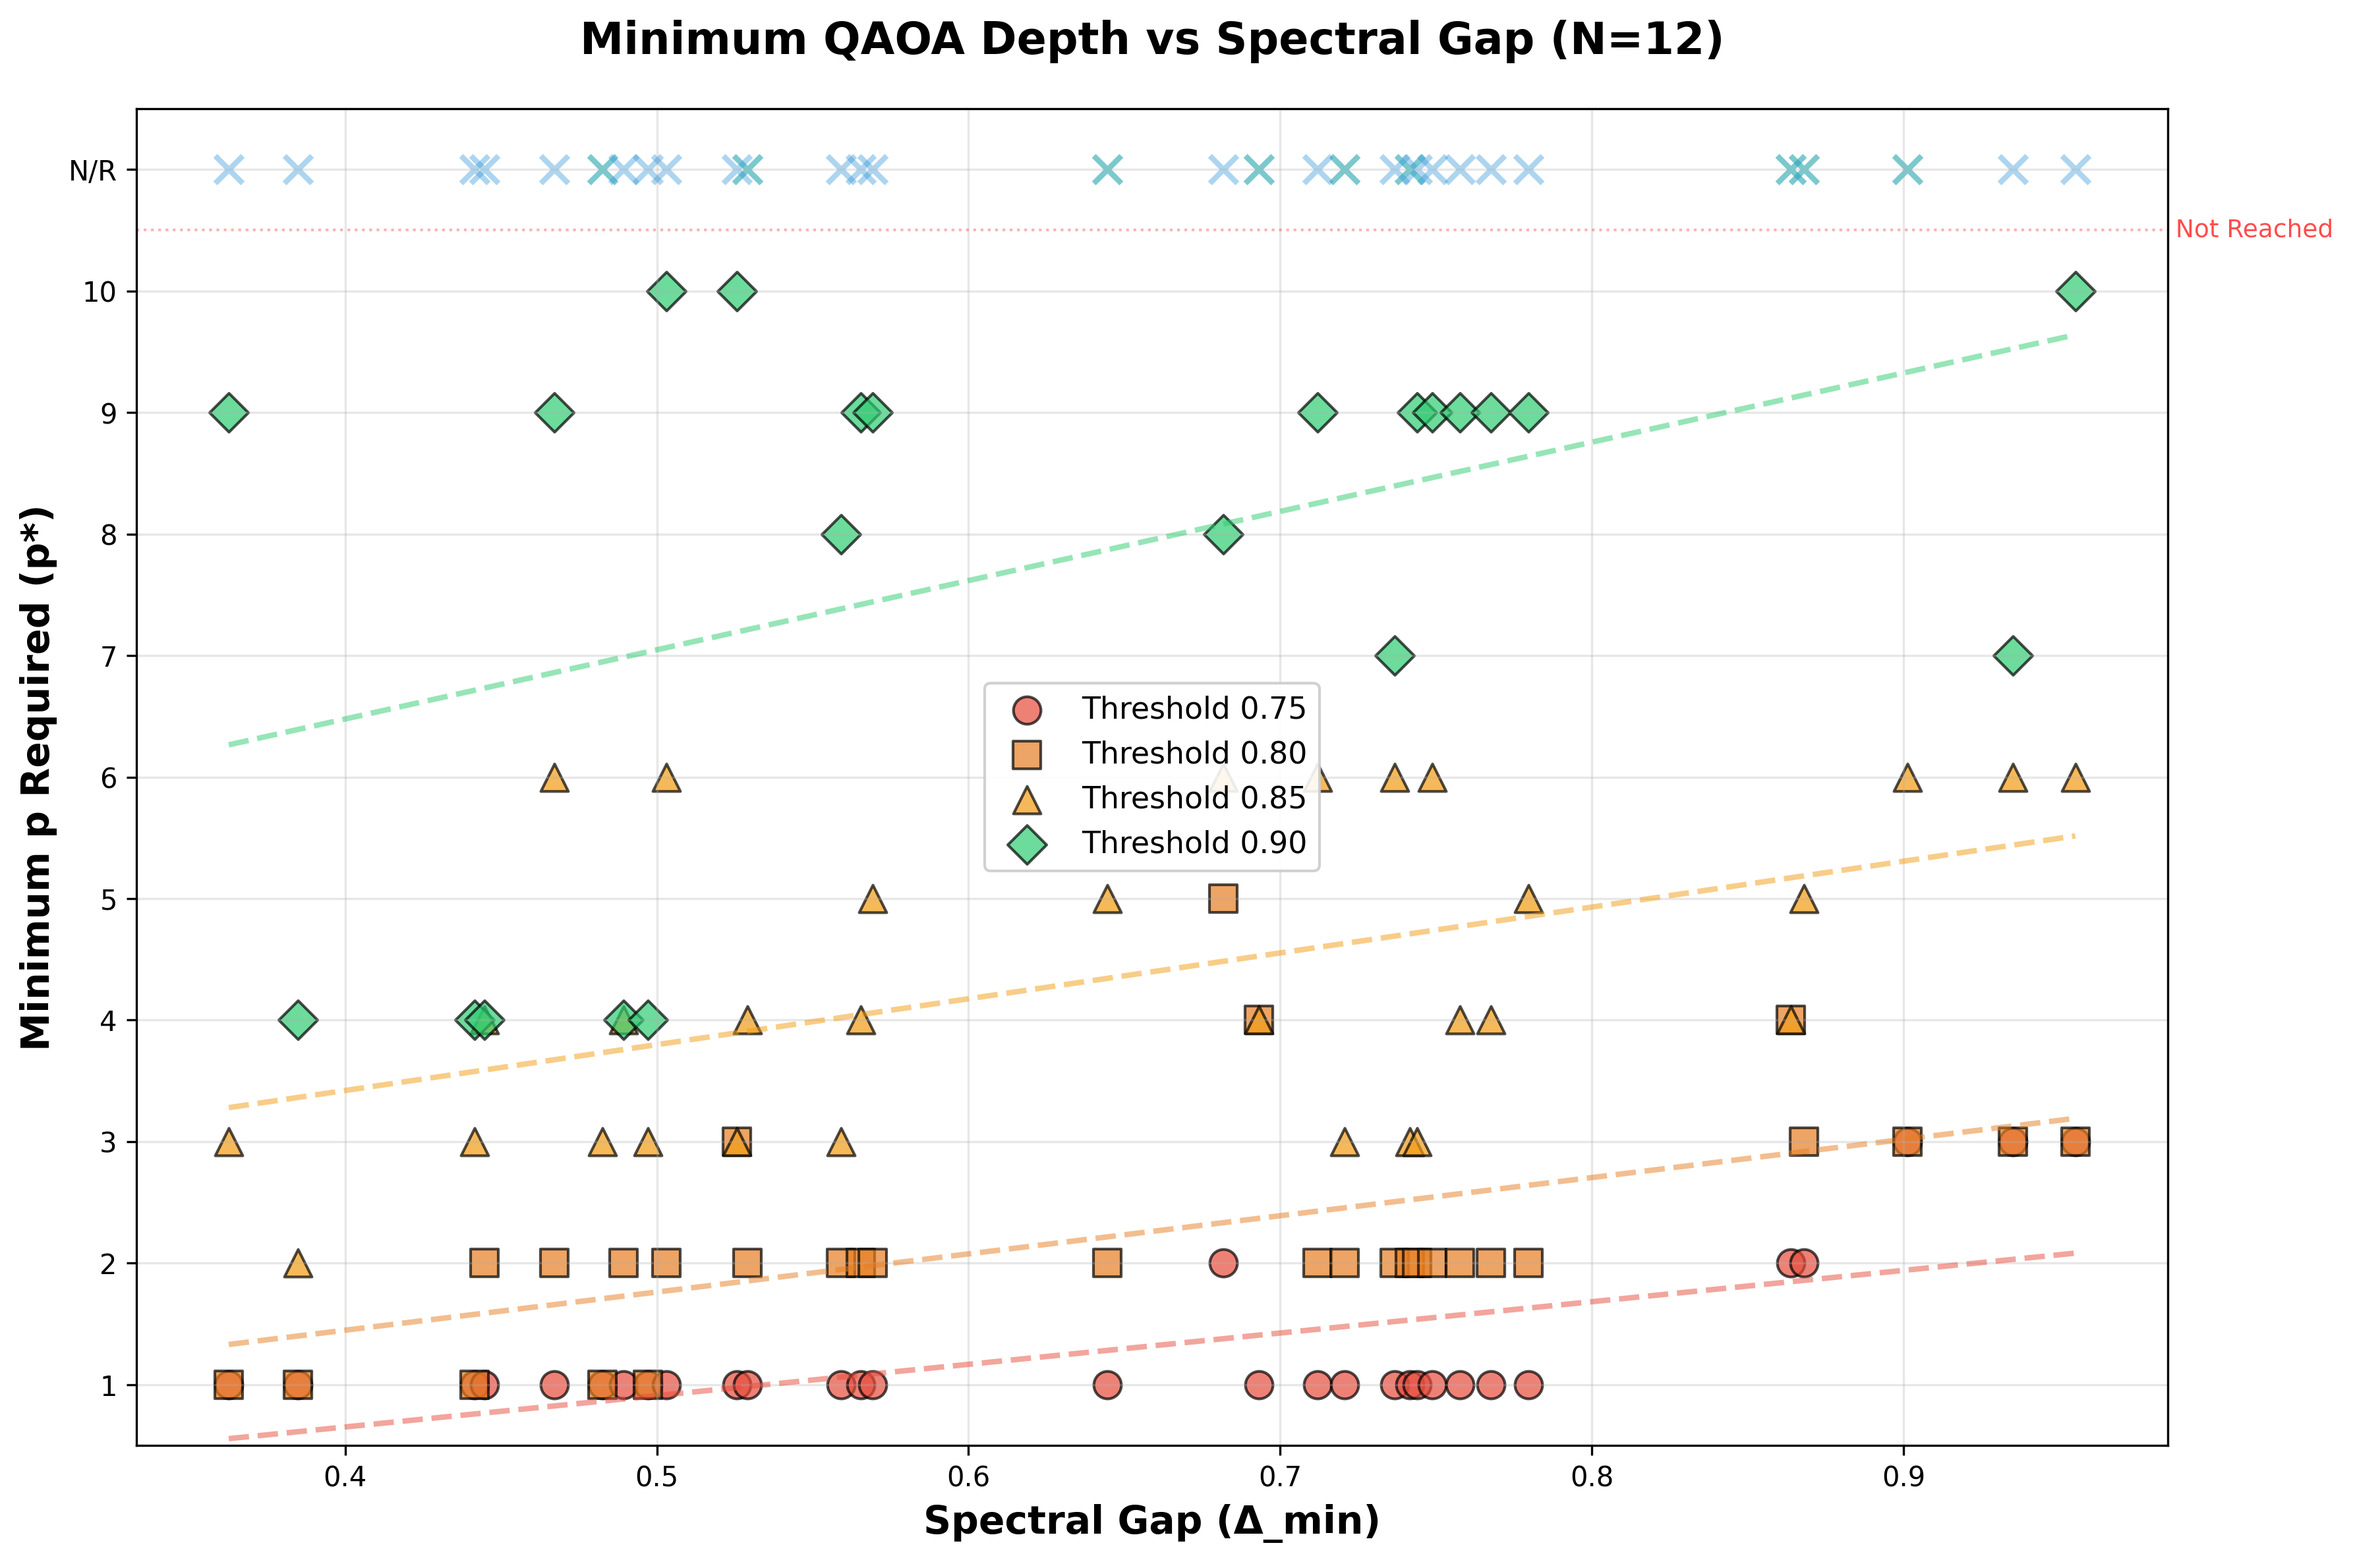
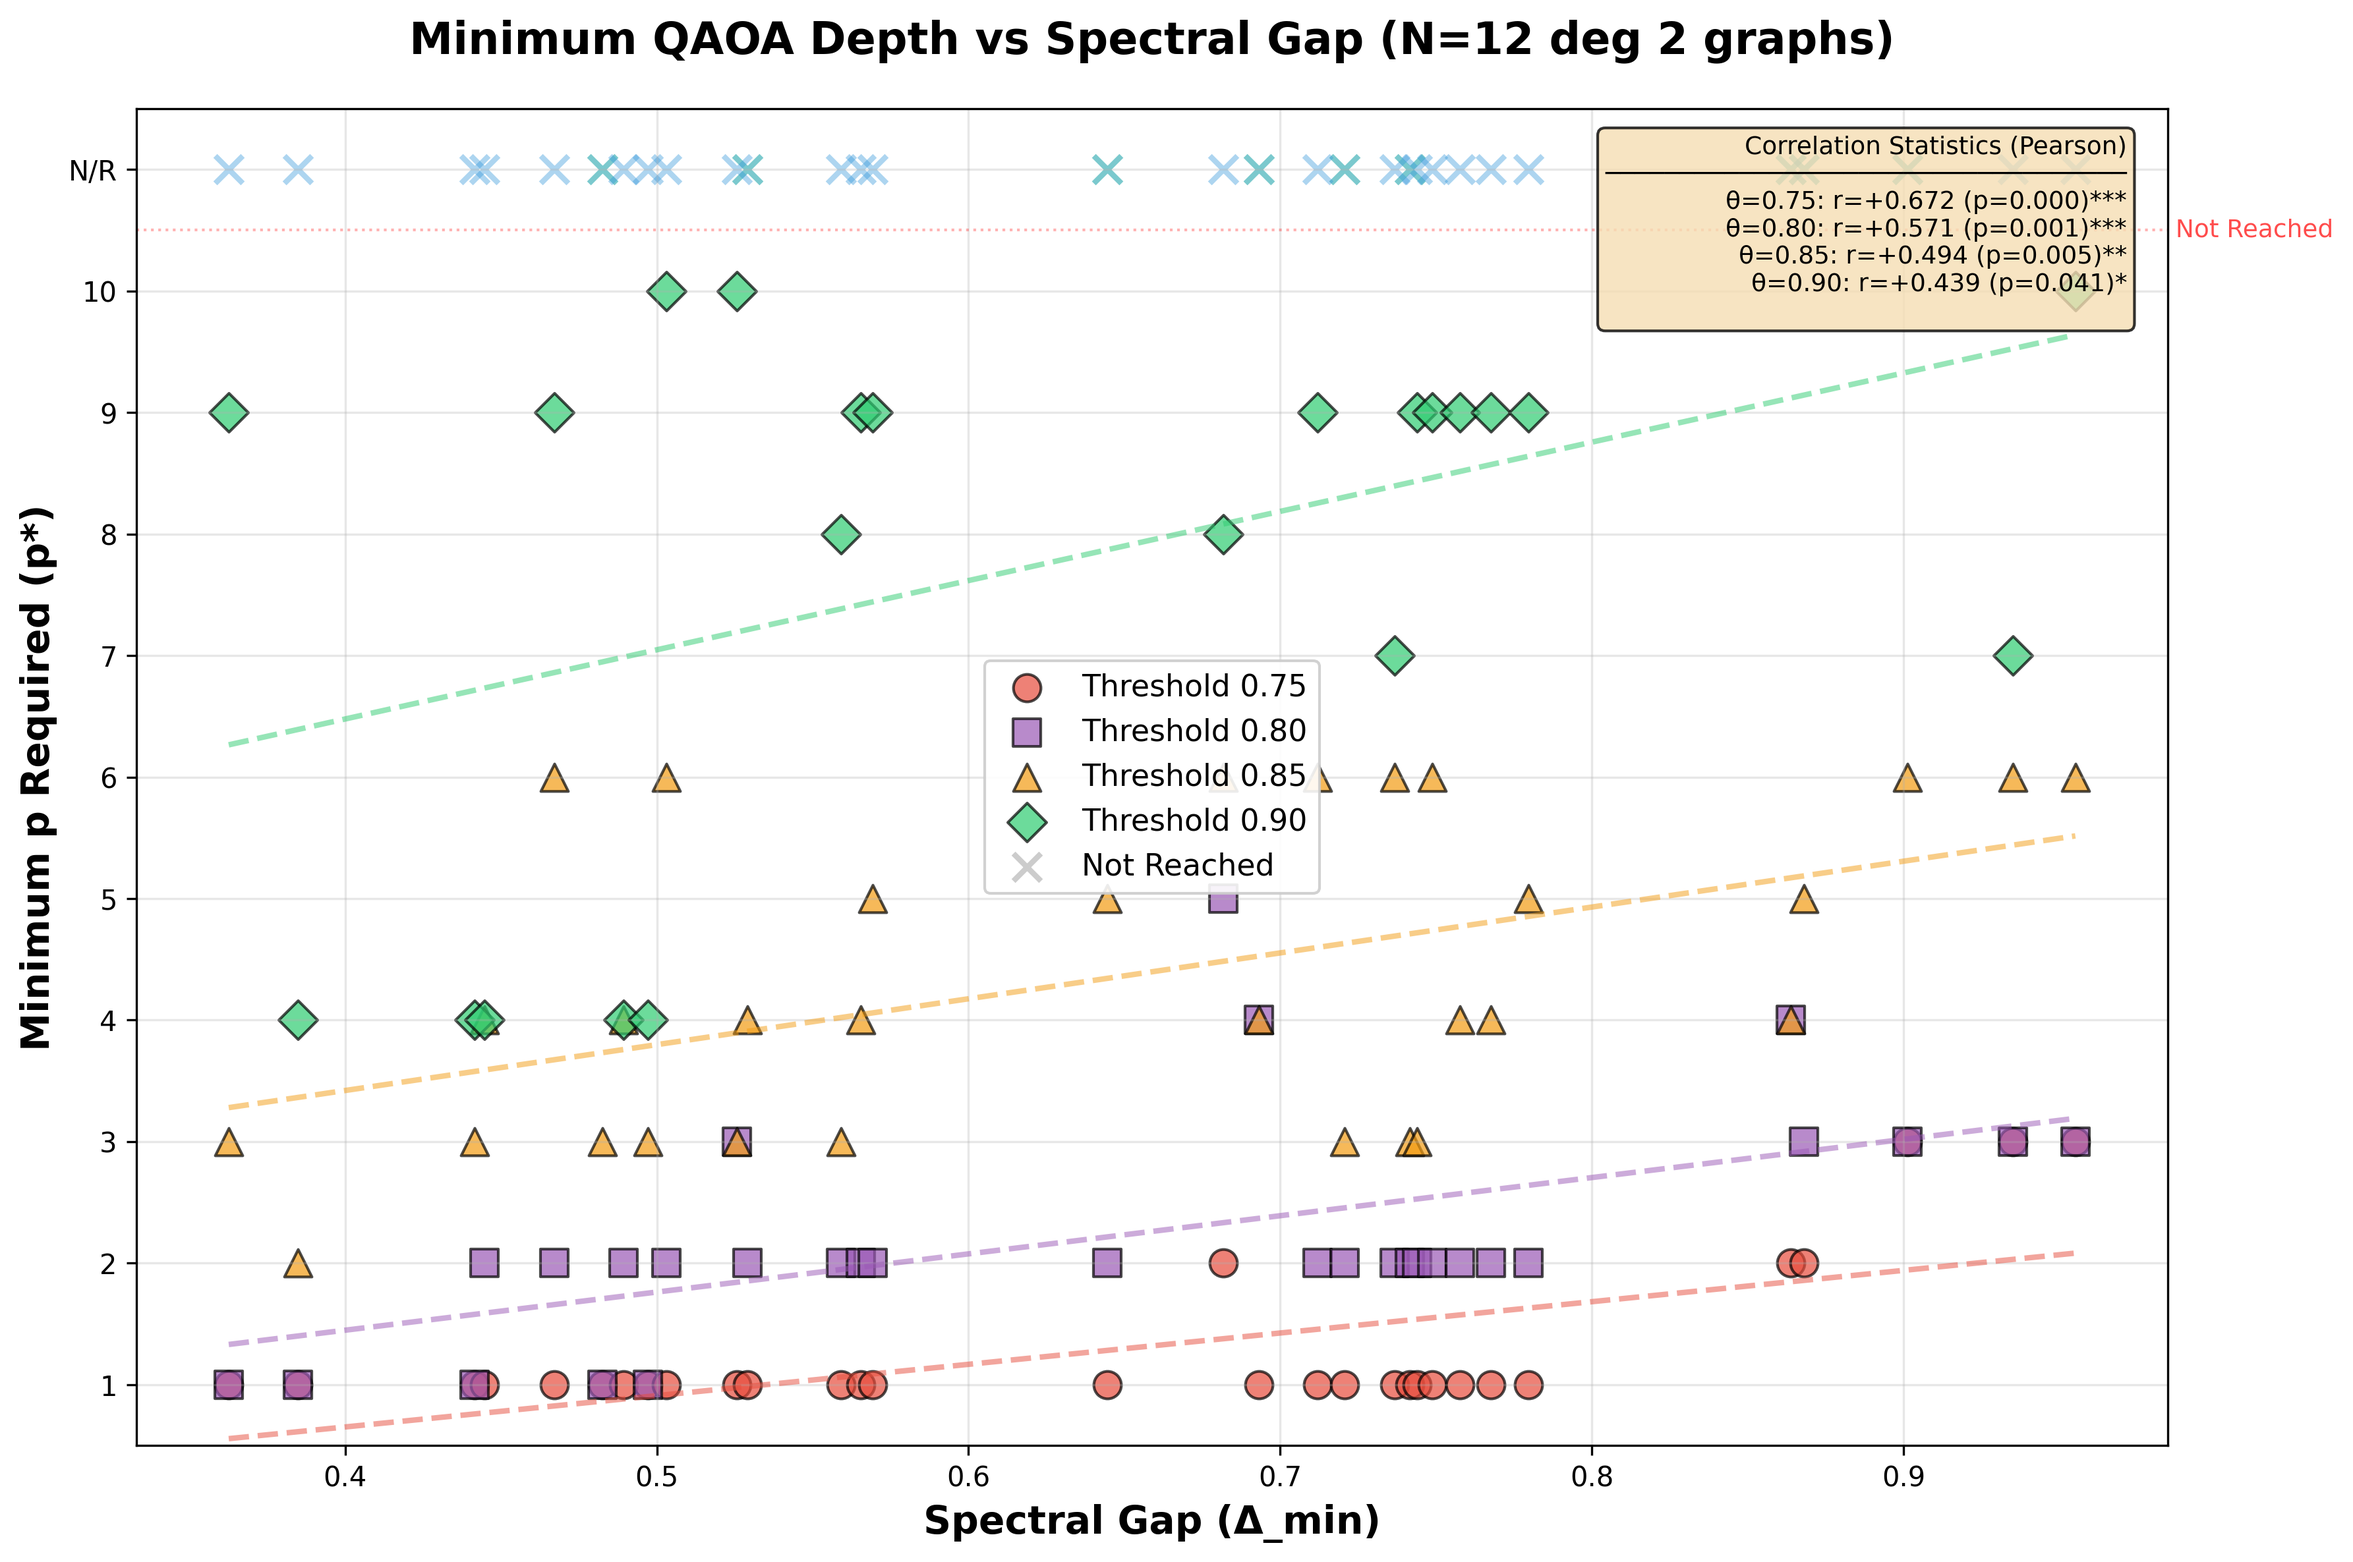
p* statistics box

diff --git a/plot_p_star_vs_gap.py b/plot_p_star_vs_gap.py
@@ -21,7 +21,7 @@ import re
 import os
 
 # Configuration
-DEFAULT_INPUT = 'outputs/QAOA_p_sweep_N12_p1to10_deg_2_only_filtered.csv'
+DEFAULT_INPUT = 'outputs/QAOA_p_sweep_N12_p1to10_deg_4_only_filtered.csv'
 OUTPUT_DIR = 'outputs/'
 THRESHOLDS = [0.75, 0.80, 0.85, 0.90, 0.95]
 
@@ -82,7 +82,7 @@ for threshold in THRESHOLDS:
 fig, ax = plt.subplots(1, 1, figsize=(12, 8))
 
 # Color palette for different thresholds
-colors = ['#e74c3c', '#e67e22', '#f39c12', '#2ecc71', '#3498db']
+colors = ['#e74c3c', '#9b59b6', '#f39c12', '#2ecc71', '#3498db']  # Changed orange to purple for 0.80
 markers = ['o', 's', '^', 'D', 'v']
 
 # Plot p* vs Δ_min for each threshold
@@ -116,10 +116,14 @@ for i, threshold in enumerate(THRESHOLDS):
                   s=100, alpha=0.4, c=colors[i], marker='x',
                   edgecolors='black', linewidth=2)
 
+# Add legend entry for 'Not Reached' markers
+ax.scatter([], [], s=100, alpha=0.4, c='gray', marker='x',
+          edgecolors='black', linewidth=2, label='Not Reached')
+
 # Formatting
 ax.set_xlabel('Spectral Gap (Δ_min)', fontsize=14, fontweight='bold')
 ax.set_ylabel('Minimum p Required (p*)', fontsize=14, fontweight='bold')
-ax.set_title(f'Minimum QAOA Depth vs Spectral Gap (N={N_value})', 
+ax.set_title(f'Minimum QAOA Depth vs Spectral Gap (N={N_value} deg 4 graphs)',
              fontsize=16, fontweight='bold', pad=20)
 ax.grid(True, alpha=0.3)
 ax.legend(loc='best', fontsize=11, framealpha=0.9)
@@ -134,6 +138,25 @@ ax.axhline(y=max_p + 0.5, color='red', linestyle=':', linewidth=1, alpha=0.3)
 ax.text(ax.get_xlim()[1], max_p + 0.5, ' Not Reached', 
         verticalalignment='center', fontsize=9, color='red', alpha=0.7)
 
+# Add statistical summary text box
+corr_text = "Correlation Statistics (Pearson)\n" + "─" * 35 + "\n"
+for threshold in THRESHOLDS:
+    y = np.array(p_star_data[threshold])
+    reached_mask = y <= max_p
+    
+    if np.sum(reached_mask) > 2:
+        x_valid = df['Delta_min'].values[reached_mask]
+        y_valid = y[reached_mask]
+        r_pearson, stat_pval_pearson = pearsonr(x_valid, y_valid)
+        
+        sig = '***' if stat_pval_pearson < 0.001 else '**' if stat_pval_pearson < 0.01 else '*' if stat_pval_pearson < 0.05 else ''
+        corr_text += f"θ={threshold:.2f}: r={r_pearson:+.3f} (p={stat_pval_pearson:.3f}){sig}\n"
+
+# Position text box in upper-right corner
+ax.text(0.98, 0.98, corr_text, transform=ax.transAxes,
+        fontsize=9, verticalalignment='top', horizontalalignment='right',
+        bbox=dict(boxstyle='round', facecolor='wheat', alpha=0.8, edgecolor='black'))
+
 plt.tight_layout()
 
 # Generate output filename based on input filename
@@ -144,7 +167,7 @@ input_name_no_ext = os.path.splitext(input_basename)[0]  # Remove extension
 if input_name_no_ext.startswith("QAOA_p_sweep"):
     output_name = input_name_no_ext.replace("QAOA_p_sweep", "p_star_vs_gap", 1)
 else:
-    output_name = f"p_star_vs_gap_{input_name_no_ext}"
+    output_name = f"p_star_vs_gap_{input_name_no_ext}----"
 
 output_file = f"{OUTPUT_DIR}{output_name}.png"
 plt.savefig(output_file, dpi=300, bbox_inches='tight')
@@ -167,16 +190,16 @@ for threshold in THRESHOLDS:
         y_valid = y[reached_mask]
         
         # Pearson correlation
-        r_pearson, p_pearson = pearsonr(x_valid, y_valid)
+        r_pearson, stat_pval_pearson = pearsonr(x_valid, y_valid)
         
         # Spearman correlation (rank-based, more robust)
-        r_spearman, p_spearman = spearmanr(x_valid, y_valid)
+        r_spearman, stat_pval_spearman = spearmanr(x_valid, y_valid)
         
-        sig_pearson = '***' if p_pearson < 0.001 else '**' if p_pearson < 0.01 else '*' if p_pearson < 0.05 else ''
-        sig_spearman = '***' if p_spearman < 0.001 else '**' if p_spearman < 0.01 else '*' if p_spearman < 0.05 else ''
+        sig_pearson = '***' if stat_pval_pearson < 0.001 else '**' if stat_pval_pearson < 0.01 else '*' if stat_pval_pearson < 0.05 else ''
+        sig_spearman = '***' if stat_pval_spearman < 0.001 else '**' if stat_pval_spearman < 0.01 else '*' if stat_pval_spearman < 0.05 else ''
         
-        print(f"   {threshold:.2f}     | {r_pearson:+.4f}   | {p_pearson:.4f}  | "
-              f"{r_spearman:+.4f}    | {p_spearman:.4f}  | {sig_spearman}")
+        print(f"   {threshold:.2f}     | {r_pearson:+.4f}   | {stat_pval_pearson:.4f}  | "
+              f"{r_spearman:+.4f}    | {stat_pval_spearman:.4f}  | {sig_spearman}")
     else:
         print(f"   {threshold:.2f}     | N/A (too few points)")
 
